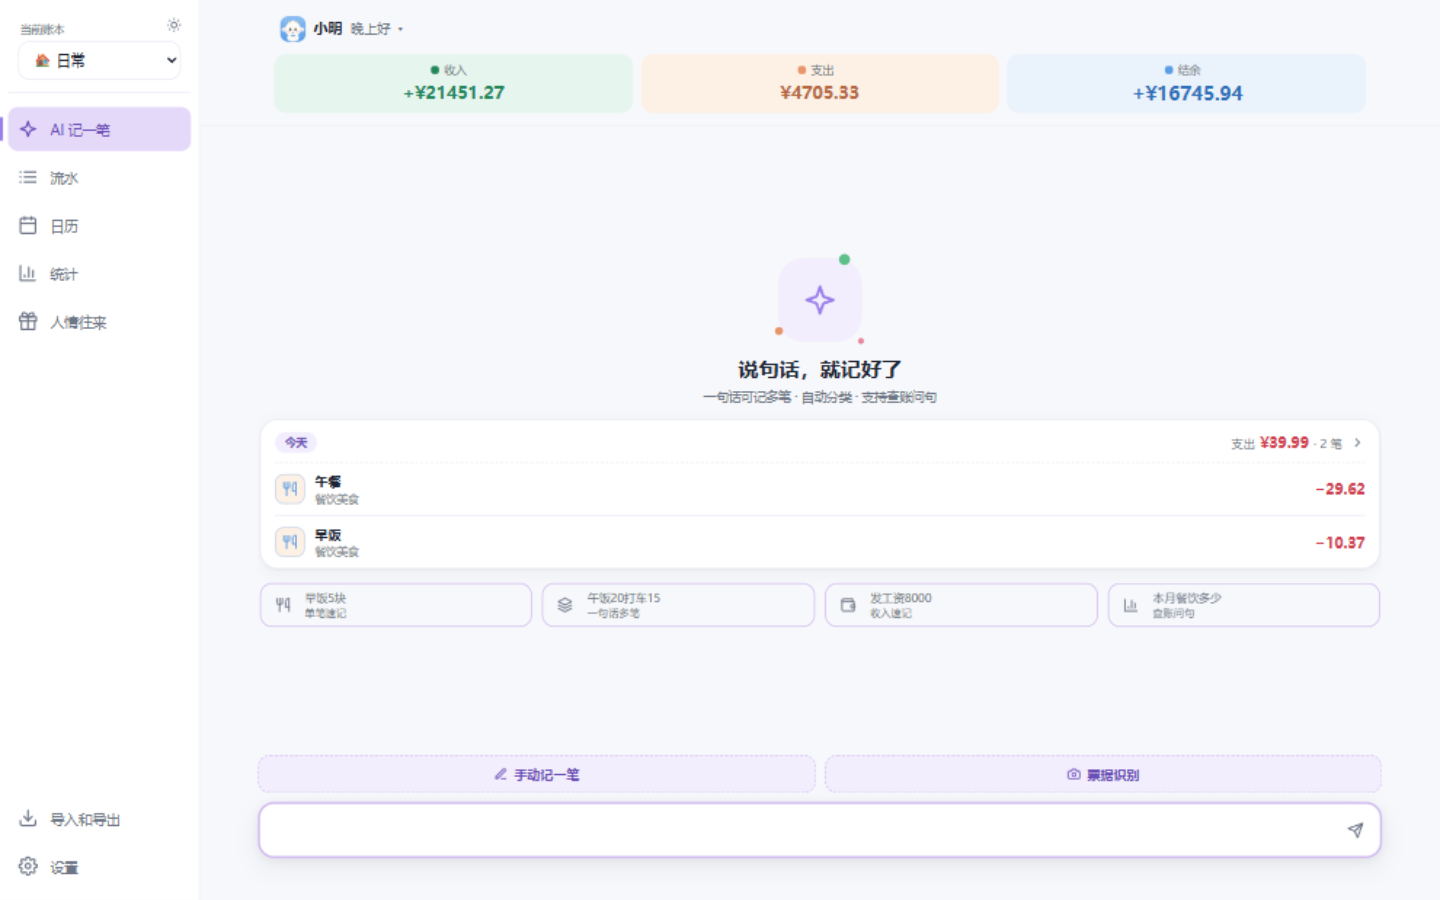
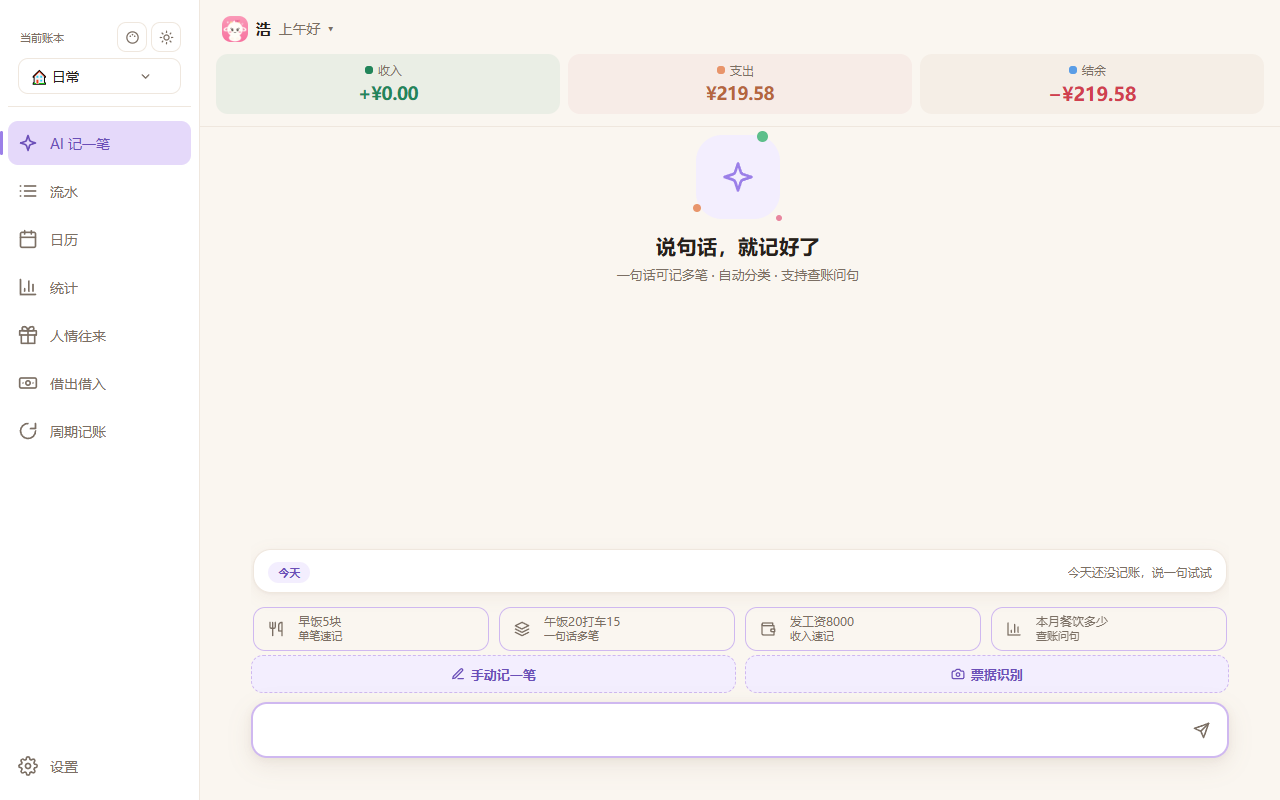
docs: README 更新 2026-10 变更 + 全套界面截图重摄
- 功能特性补「暖色视觉体系」（主题色 7 色 + 暖/原切换 + 自绘下拉 + favicon）
- Fork 新增：周期记账补「到日期/下次记账预览/月末钳位」；备份补时区与日志留痕；
  新增「界面打磨」条目（暖色 token、热力色阶、危险色、表单栅格、来源中文化等）
- 截图重摄：暖色版 01-06 + 新增 07 备份与日志 / 08 侧栏主题色面板 /
  09 周期表单+自绘下拉；05 更新为设置·导入导出（导入页已迁入设置）

diff --git a/README.md b/README.md
@@ -14,6 +14,7 @@
 - 🤖 **AI 记账**：一句话记一笔、小票拍照识别、对话查账（汇总/分类/日历/趋势、成员人均与 AA 结算、人情往来、账户、预算）、月度分析（填 Key 即用，支持百炼 / 智谱 / DeepSeek / 本地 OpenAI 兼容模型）
 - 💬 **微信机器人**：微信里对话记账查账，多人多账本（iLink Bot 通道）
 - 🌓 **明暗主题**：全站深色模式，多端实时同步（长轮询，任意端记账其他端 1 秒内刷新）
+- 🎨 **暖色视觉体系**：暖米白/暖黑双色温 + 7 种主题色（海蓝/樱粉/豆绿/雾紫/蜜桃/青瓷/暖灰）一键切换，明暗自动适配；另附「原色」一键回退；全站自绘下拉、favicon
 - 🔒 **隐私优先**：单文件 SQLite 存储，无云端上报，AI 识别仅在你配置了 Key 后调用对应服务
 
 ## 🌿 Fork 新增
@@ -21,9 +22,10 @@
 - **📥 钱迹导入**：钱迹 App 导出的 xlsx 直接导入（支出/收入/债务自动分流、退款行自动转不计收支、钱迹 ID 稳定去重、二级分类自动下挂到三级分类）
 - **🗂 分类任意层级**：分类树不限层数（如 餐饮美食 > 三餐 > 早餐/午餐/晚餐），每层都可被选为流水分类；流水行标题显示 `分类 · 备注`；统计聚合按根类口径不变
 - **🤝 借出借入台账**：独立登记不碰流水，借出/入人 + 本金 + 时间 + 约定还款日，部分/多次还款自动转已还清，总借出/总借入汇总 + 逾期提醒
-- **🔁 周期自动记账**：房租/订阅/工资等固定收支按 周/月 周期自动入账（后台线程到期生成，确定性幂等防重，不补跑）
+- **🔁 周期自动记账**：房租/订阅/工资等固定收支按 周/月 周期自动入账（后台线程到期生成，确定性幂等防重，不补跑）；可设「到日期」停止记账（越过自动停用）；弹窗内「下次记账」实时预览，每月 29-31 号遇小月自动按月末记
 - **☁ WebDAV 备份**：备份文件同步到你自己的 WebDAV 服务（坚果云/群晖/Alist 等），支持测试连接、手动上传、远端列表下载恢复；自动备份生成后可自动上传
-- **🛡 备份可靠性与每日备份**：每天到点自动生成日备（可选保留天数）+ 月末月备 + 年末年备，日备自动同步 WebDAV 并按天清理远端；列表显示文件名/类型/流水笔数/大小，空库或损坏备份标红且禁止恢复（恢复前强制校验非空）
+- **🛡 备份可靠性与每日备份**：每天到点自动生成日备（可选保留天数）+ 月末月备 + 年末年备，日备自动同步 WebDAV 并按天清理远端；列表显示文件名/类型/流水笔数/大小，空库或损坏备份标红且禁止恢复（恢复前强制校验非空）；Docker 镜像内置 Asia/Shanghai 时区（定时触发按北京时间），备份循环全程日志留痕
+- **🎨 界面打磨（2026-10）**：暖色 token 体系（浅 #FAF6F0 / 深 #171210）、日历支出热力暖橙色阶 + 今日描边、危险操作全局红色语义、弹窗表单分组栅格化、流水列表分割线化 + 来源标签中文化（手动/周期/机器人/导入平台）、统计稀疏数据占位说明、自绘下拉组件（选项面板完全跟随主题）
 - **📅 按周统计**：统计范围新增「周」（周一~周日，‹›翻周），趋势图为近 4 周周度柱
 - **✅ 待确认一键确认**：导入预览与流水页均可一键按建议分类落定
 - **🖼 页签记忆**：刷新后停留在上次打开的页面
@@ -43,13 +45,17 @@
 
 ## 📸 界面演示
 
-| AI 记一笔 · 收支概览 | 日历收支热力 |
+| AI 记一笔 · 收支概览 | 日历收支热力（暖橙色阶） |
 |:---:|:---:|
 | ![AI 记一笔](screenshots/01-ai-home.png) | ![日历收支热力](screenshots/02-calendar-light.png) |
 | **统计看板** | **流水与筛选** |
 | ![统计看板](screenshots/03-stats-light.png) | ![流水与筛选](screenshots/04-list-light.png) |
-| **账单导入预览** | **深色模式** |
-| ![账单导入预览](screenshots/05-import-preview.png) | ![深色模式](screenshots/06-stats-dark.png) |
+| **设置 · 导入和导出** | **深色模式** |
+| ![导入导出](screenshots/05-import-preview.png) | ![深色模式](screenshots/06-stats-dark.png) |
+| **备份与日志** | **侧栏主题色面板** |
+| ![备份与日志](screenshots/07-backup.png) | ![主题色面板](screenshots/08-accent-panel.png) |
+| **周期记账表单 + 自绘下拉** | |
+| ![周期记账表单](screenshots/09-recur-form.png) | |
 
 ## 🚀 部署
 
